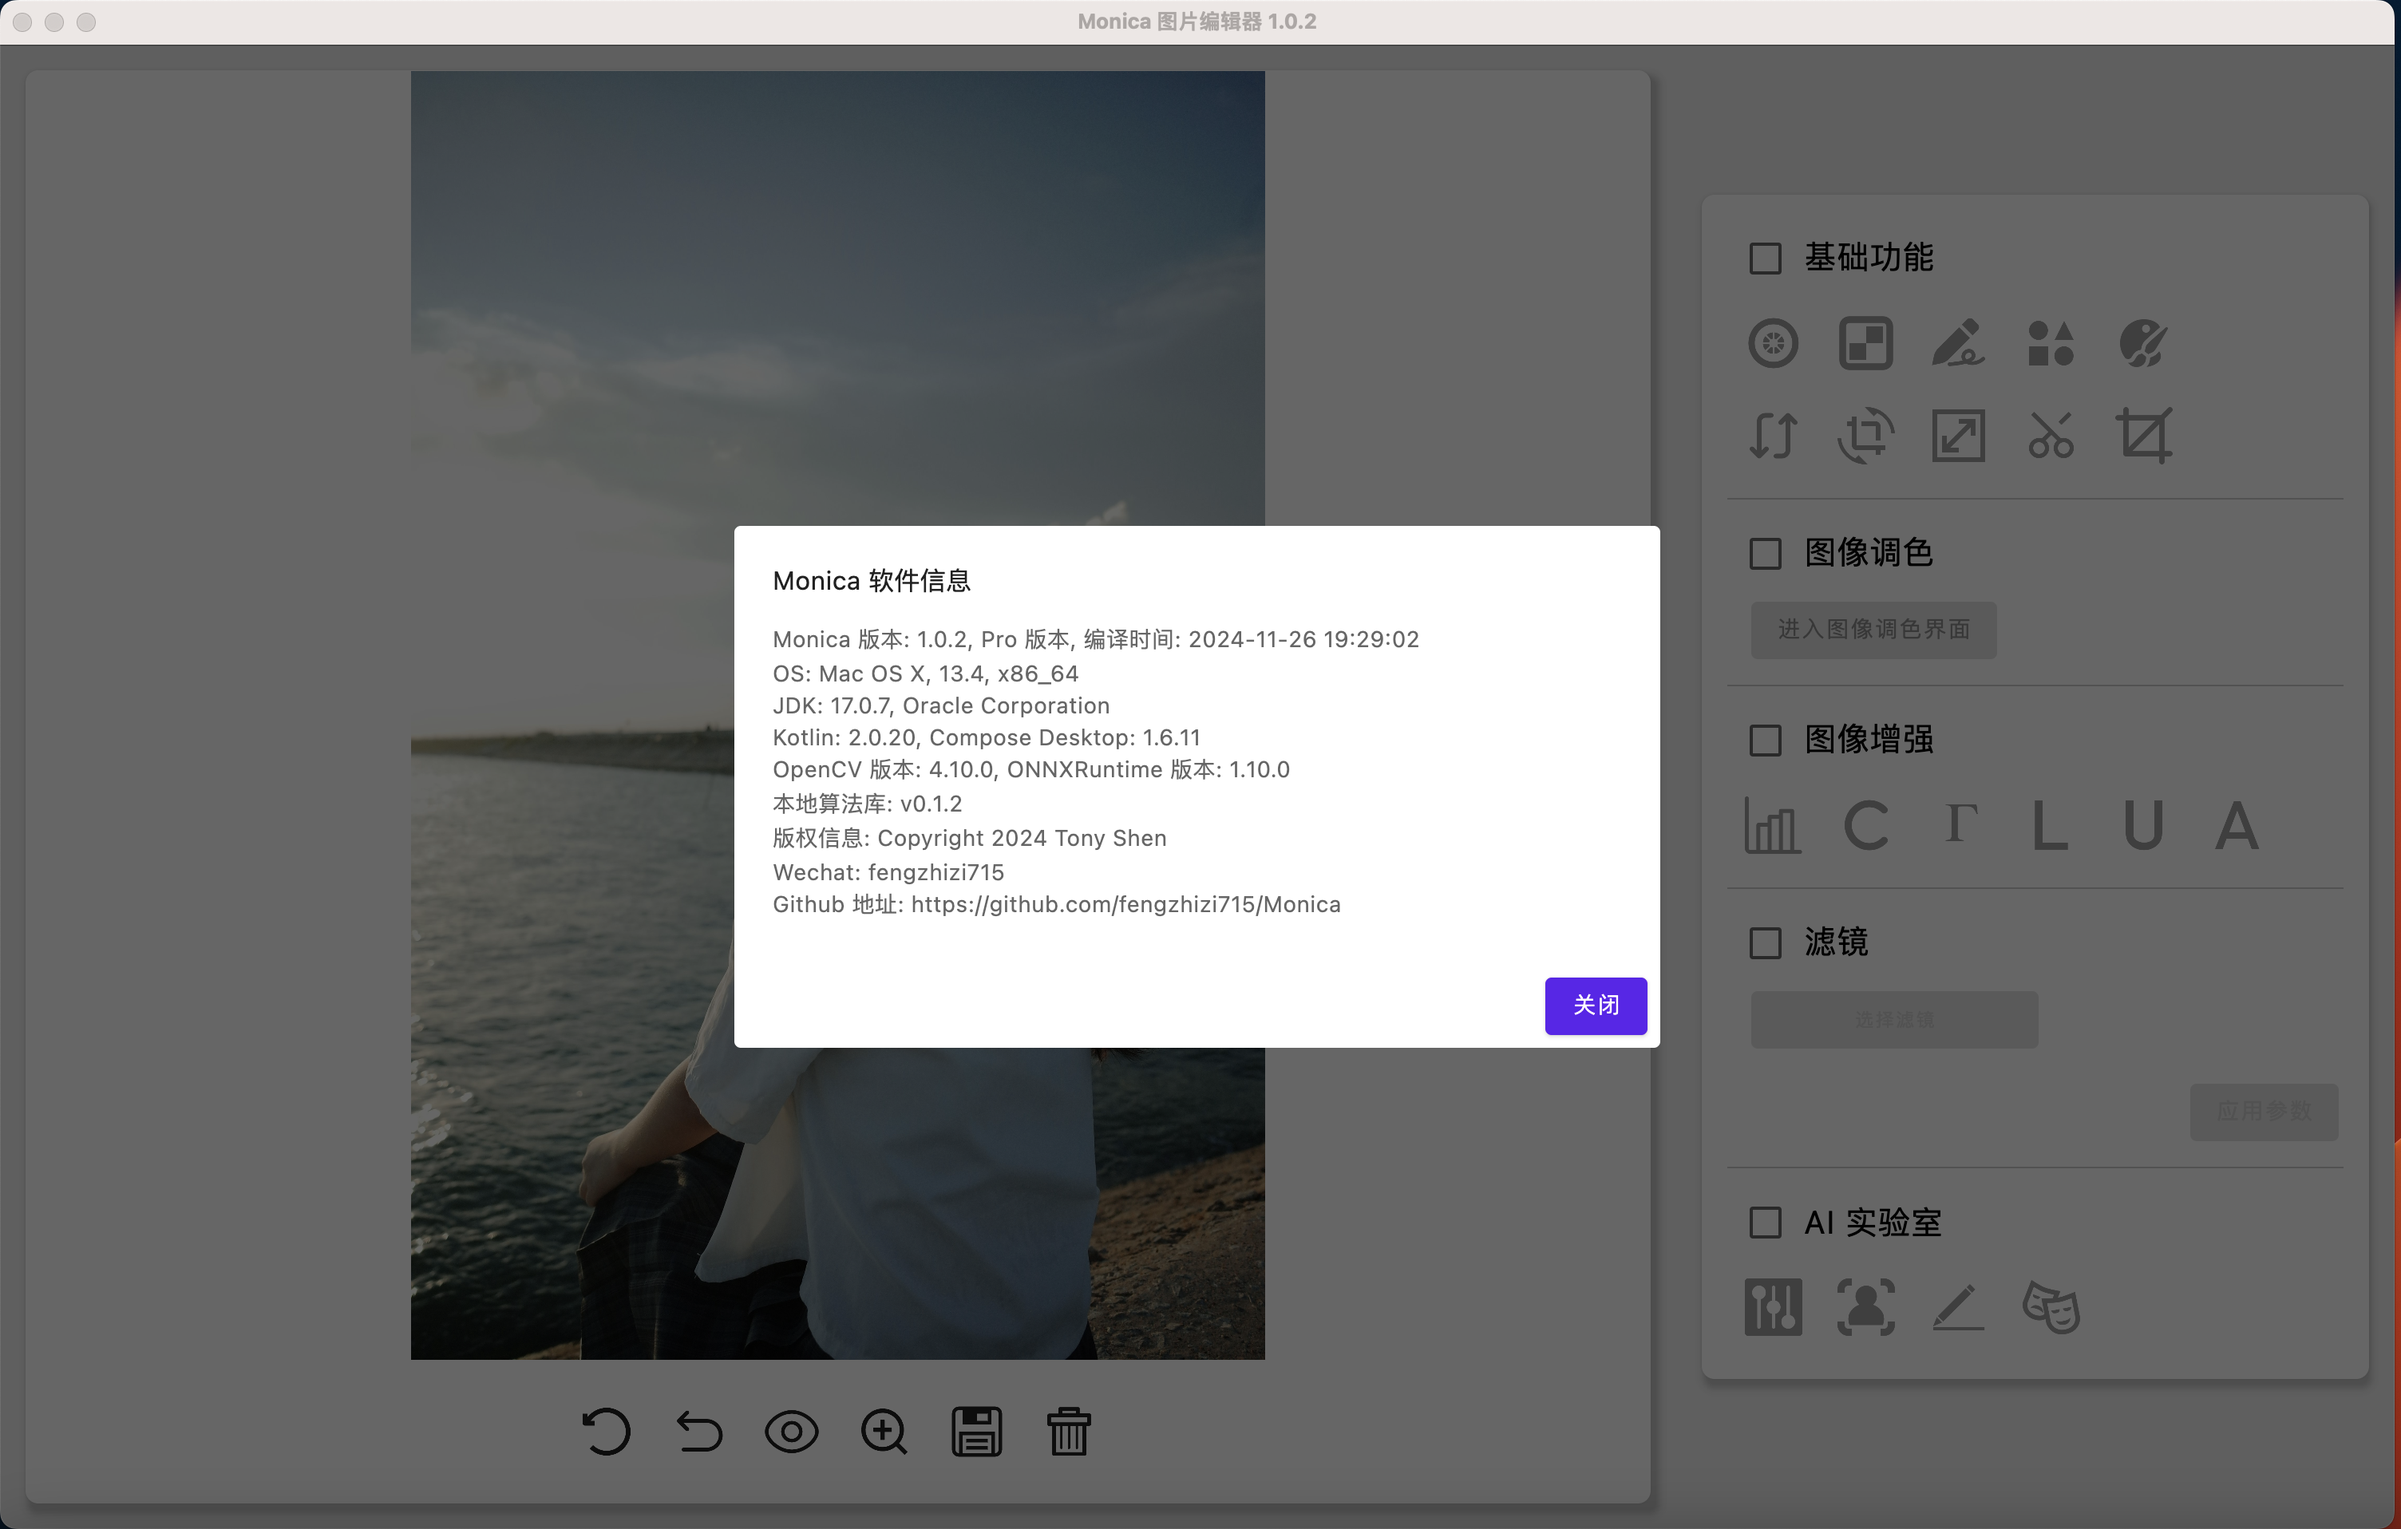
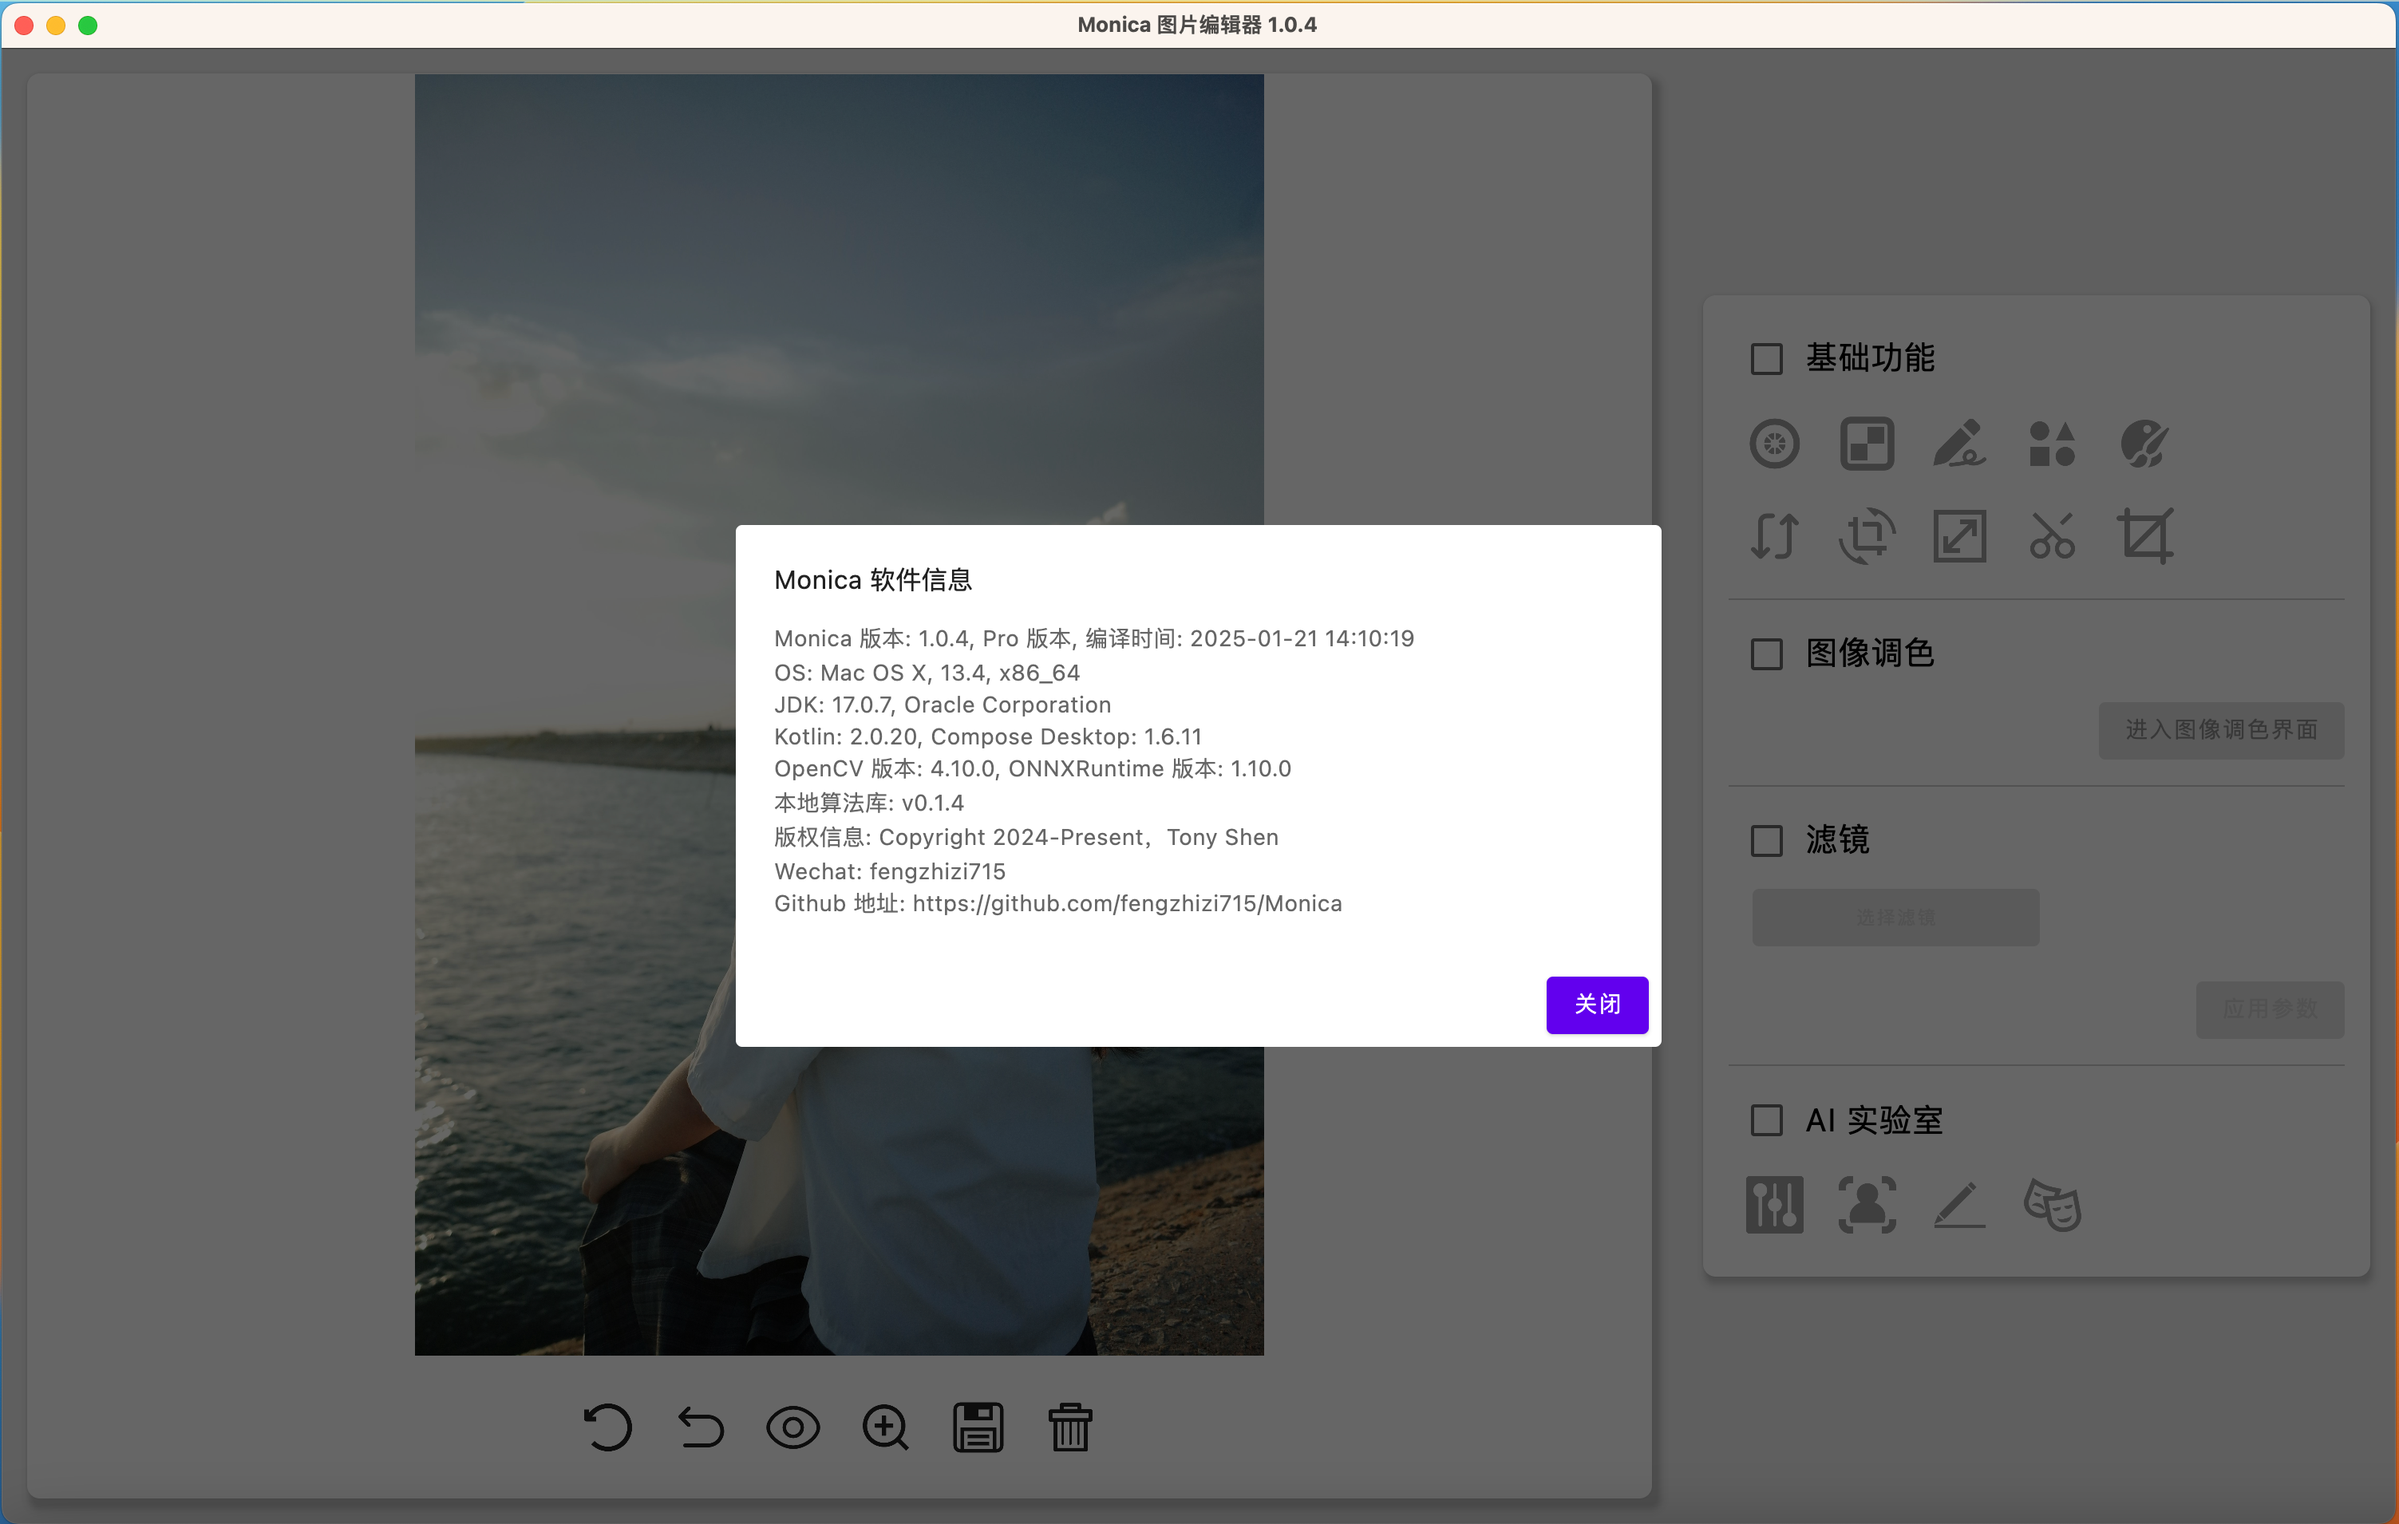
update

diff --git a/CHANGELOG.md b/CHANGELOG.md
@@ -1,6 +1,11 @@
 Monica
 ===
 
+Version 1.0.4
+---
+2025-1-21
+* 完善对 CV 算法快速调参的模块
+
 Version 1.0.3
 ---
 2024-11-27
